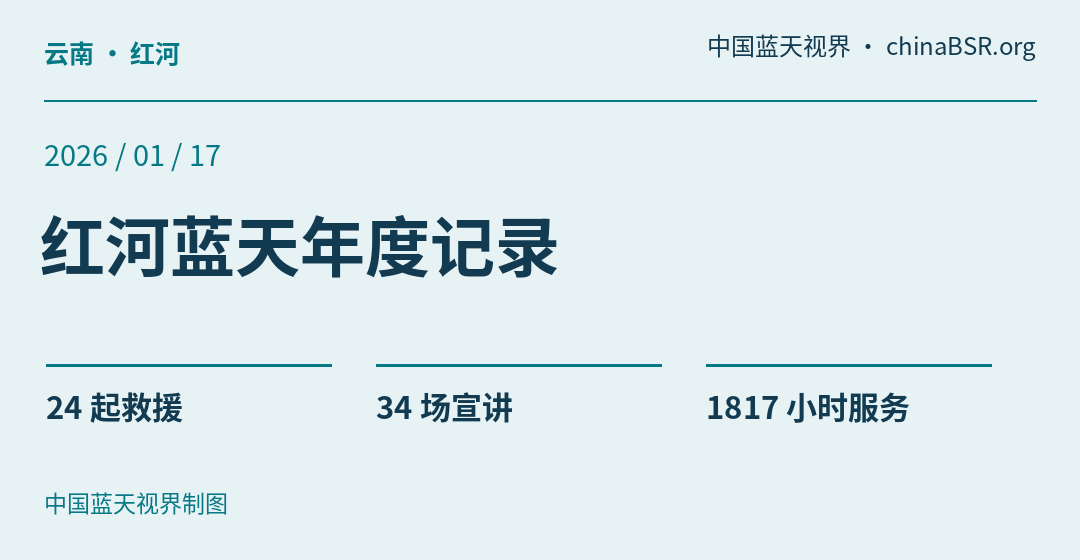
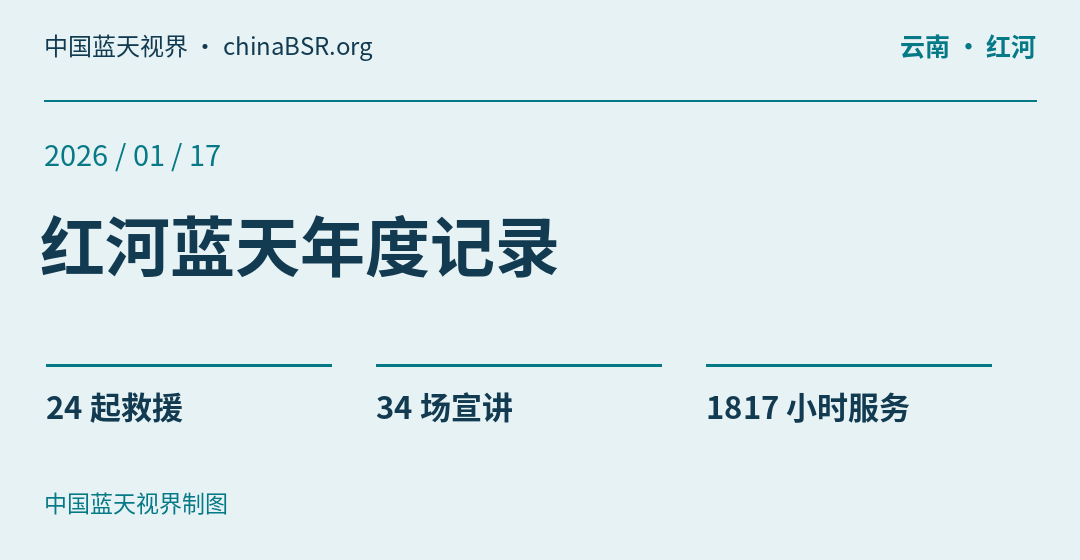
统一图片左上角标识并支持点击查看大图

Changed region(s): [[0.0306, 0.0607, 0.3361, 0.1214], [0.825, 0.0607, 0.9778, 0.1214], [0.6417, 0.0607, 0.7944, 0.1214]]

diff --git a/news/adiyaman-search-points/index.html b/news/adiyaman-search-points/index.html
@@ -1,5 +1,5 @@
 <!doctype html><html lang="zh-CN"><head><meta charset="utf-8"><meta name="viewport" content="width=device-width,initial-scale=1"><title>从马拉蒂亚转场阿德亚曼，五名队员徒步核实搜救点 · 中国蓝天视界</title><meta name="description" content="2023年2月，土耳其地震搜救进入第五天。当地时间10日晚，蓝天救援队第一梯队接到土耳其灾害与应急管理局调派，离开马拉蒂亚，向一百多公里外的阿德亚曼转移。"><link rel="canonical" href="https://chinabsr.org/news/adiyaman-search-points/"><link rel="icon" type="image/png" href="/assets/china-bsr-avatar.png"><link rel="apple-touch-icon" href="/assets/china-bsr-avatar.png"><meta property="og:title" content="从马拉蒂亚转场阿德亚曼，五名队员徒步核实搜救点"><meta property="og:description" content="2023年2月，土耳其地震搜救进入第五天。当地时间10日晚，蓝天救援队第一梯队接到土耳其灾害与应急管理局调派，离开马拉蒂亚，向一百多公里外的阿德亚曼转移。"><meta property="og:url" content="https://chinabsr.org/news/adiyaman-search-points/"><meta property="og:type" content="article"><link rel="stylesheet" href="/assets/site.css"><link rel="stylesheet" href="/assets/navigation.css"><script src="/assets/navigation.js" defer></script><script type="application/ld+json">{"@context": "https://schema.org", "@type": "NewsArticle", "headline": "从马拉蒂亚转场阿德亚曼，五名队员徒步核实搜救点", "description": "2023年2月，土耳其地震搜救进入第五天。当地时间10日晚，蓝天救援队第一梯队接到土耳其灾害与应急管理局调派，离开马拉蒂亚，向一百多公里外的阿德亚曼转移。", "datePublished": "2026-11-19", "mainEntityOfPage": "https://chinabsr.org/news/adiyaman-search-points/", "publisher": {"@type": "Organization", "name": "中国蓝天视界", "url": "https://chinabsr.org/"}, "citation": ["https://hi.people.com.cn/n2/2023/0211/c231207-40297825.html"], "image": "https://chinabsr.org/assets/adiyaman-news.webp"}</script><meta property="og:image" content="https://chinabsr.org/assets/adiyaman-news.webp"></head><body><header id="top"><div class="wrap"><a class="brand site-brand" href="/"><img src="/assets/china-bsr-avatar.png" width="50" height="50" alt=""><span class="brand-copy">中国蓝天视界<small>chinaBSR.org</small></span></a></div></header>
-<nav class="mainnav" aria-label="主导航"><div class="mainnav-in wrap"><a href="/">首页</a><a href="/news/" aria-current="page" class="on">蓝天资讯</a><a href="/about/">关于本站</a><button id="share" class="share-text" hidden>分享</button><span id="share-status" role="status" aria-live="polite"></span></div></nav><main class="wrap content"><article class="article"><nav aria-label="面包屑"><a href="/">首页</a> / <a href="/news/">蓝天资讯</a></nav><h1>从马拉蒂亚转场阿德亚曼，五名队员徒步核实搜救点</h1><p class="meta">新闻回顾 · 中国蓝天视界整理于 2026-11-19</p><p class="lead">2023年2月，土耳其地震搜救进入第五天。当地时间10日晚，蓝天救援队第一梯队接到土耳其灾害与应急管理局调派，离开马拉蒂亚，向一百多公里外的阿德亚曼转移。</p><figure><img src="/assets/adiyaman-news.webp" alt="阿德亚曼震区的中国蓝天和伊朗搜救人员"><figcaption>阿德亚曼震区的中国蓝天和伊朗搜救人员。摄影／<a href="https://commons.wikimedia.org/wiki/File:Chinese_Blue_Sky_and_Iranian_search_and_rescue_teams_are_in_Ad%C4%B1yaman,_which_was_affected_by_the_earthquakes.jpg">Hossein Velayati / Tasnim News Agency</a> · <a href="https://creativecommons.org/licenses/by/4.0/">CC BY 4.0</a>，本站添加右上角标识。</figcaption></figure><p>抵达新的责任区后，地图上的标记还要有人到现场核实。人民网海南频道记录了其中一组的行程：海南队员张纯彬、盛豪与另三名队员编在一起，五个人徒步先行，按图上标出的顺序，从东向西寻找坍塌点。</p><p>同在土耳其的海南队员分在不同梯队。第一梯队已经转场时，第二梯队还在赶往震区。把两路人的去向分开看，才能读懂当时接连发回的消息：有人刚动身，也有人已经在下一个责任区步行查点。</p><section class="sources"><h2>报道来源</h2><ul><li>人民网海南频道</li></ul></section><nav class="story-nav" aria-label="文章翻页"><a rel="prev" href="/news/chongqing-shigatse-quake/"><small>上一篇</small>定日地震后，重庆蓝天救援队带着通信设备赶赴日喀则</a></nav><section class="related"><h2>相关阅读</h2><ul><li><a href="/news/turkiye-earthquake-2023/">蓝天救援驰援土耳其地震：回看2023年2月8日的出发</a></li><li><a href="/news/verify-rescue-information/">如何辨别蓝天救援相关信息？从来源和照片查起</a></li><li><a href="/news/professional-training/">蓝天救援为什么重视专业训练？从联训看团队协作</a></li></ul></section><a href="/news/">查看全部蓝天资讯</a></article></main><footer><div class="wrap foot"><div><a class="brand" href="#top">中国蓝天视界 · chinaBSR.org</a>
+<nav class="mainnav" aria-label="主导航"><div class="mainnav-in wrap"><a href="/">首页</a><a href="/news/" aria-current="page" class="on">蓝天资讯</a><a href="/about/">关于本站</a><button id="share" class="share-text" hidden>分享</button><span id="share-status" role="status" aria-live="polite"></span></div></nav><main class="wrap content"><article class="article"><nav aria-label="面包屑"><a href="/">首页</a> / <a href="/news/">蓝天资讯</a></nav><h1>从马拉蒂亚转场阿德亚曼，五名队员徒步核实搜救点</h1><p class="meta">新闻回顾 · 中国蓝天视界整理于 2026-11-19</p><p class="lead">2023年2月，土耳其地震搜救进入第五天。当地时间10日晚，蓝天救援队第一梯队接到土耳其灾害与应急管理局调派，离开马拉蒂亚，向一百多公里外的阿德亚曼转移。</p><figure><img src="/assets/adiyaman-news.webp" alt="阿德亚曼震区的中国蓝天和伊朗搜救人员"><figcaption>阿德亚曼震区的中国蓝天和伊朗搜救人员。摄影／<a href="https://commons.wikimedia.org/wiki/File:Chinese_Blue_Sky_and_Iranian_search_and_rescue_teams_are_in_Ad%C4%B1yaman,_which_was_affected_by_the_earthquakes.jpg">Hossein Velayati / Tasnim News Agency</a> · <a href="https://creativecommons.org/licenses/by/4.0/">CC BY 4.0</a>，本站添加左上角标识。</figcaption></figure><p>抵达新的责任区后，地图上的标记还要有人到现场核实。人民网海南频道记录了其中一组的行程：海南队员张纯彬、盛豪与另三名队员编在一起，五个人徒步先行，按图上标出的顺序，从东向西寻找坍塌点。</p><p>同在土耳其的海南队员分在不同梯队。第一梯队已经转场时，第二梯队还在赶往震区。把两路人的去向分开看，才能读懂当时接连发回的消息：有人刚动身，也有人已经在下一个责任区步行查点。</p><section class="sources"><h2>报道来源</h2><ul><li>人民网海南频道</li></ul></section><nav class="story-nav" aria-label="文章翻页"><a rel="prev" href="/news/chongqing-shigatse-quake/"><small>上一篇</small>定日地震后，重庆蓝天救援队带着通信设备赶赴日喀则</a></nav><section class="related"><h2>相关阅读</h2><ul><li><a href="/news/turkiye-earthquake-2023/">蓝天救援驰援土耳其地震：回看2023年2月8日的出发</a></li><li><a href="/news/verify-rescue-information/">如何辨别蓝天救援相关信息？从来源和照片查起</a></li><li><a href="/news/professional-training/">蓝天救援为什么重视专业训练？从联训看团队协作</a></li></ul></section><a href="/news/">查看全部蓝天资讯</a></article></main><footer><div class="wrap foot"><div><a class="brand" href="#top">中国蓝天视界 · chinaBSR.org</a>
 <p>中国蓝天救援 · 独立公益科普信息平台</p></div>
 <nav aria-label="页脚导航"><a href="/youtube/" target="_blank" rel="noopener">YouTube 频道</a></nav></div>
 <div class="wrap footnote">本频道为非官方账号，仅用于公益介绍与信息分享。<br>© <span id="year">2026</span> China BSR</div></footer></body></html>

diff --git a/assets/site.css b/assets/site.css
@@ -1,1 +1,1 @@
-*{box-sizing:border-box}body{margin:0;color:#16354b;background:#f6f8f9;font:1rem/1.85 system-ui,"Microsoft YaHei",sans-serif}.wrap{width:min(90%,72rem);margin:auto}header{border-bottom:1px solid #ccd8df}header .wrap,.foot{display:flex;justify-content:space-between;gap:1.5rem;padding:1.2rem 0;align-items:center}.brand{font-size:1.25rem;font-weight:750;text-decoration:none}.brand span{color:#087ba7}nav{display:flex;gap:1.2rem}a{color:#075c91;text-underline-offset:.2em}a:focus-visible,button:focus-visible{outline:3px solid #d67b20;outline-offset:3px}.content{padding:2.5rem 0 4rem}h1{font-size:clamp(1.9rem,4vw,3rem);line-height:1.4}h2{font-size:1.4rem;line-height:1.5}.lead{font-size:1.1rem;color:#496373}.cards{display:grid;grid-template-columns:repeat(3,1fr);gap:1.5rem}.card{background:white;border:1px solid #dce5ea;border-radius:.6rem;overflow:hidden;text-decoration:none;color:inherit}.card img{width:100%;height:200px;object-fit:cover}.card div{padding:1.1rem}.card h2{font-size:1.15rem}.card p{color:#496373}.card span,.meta{color:#526979;font-size:.9rem}.article{max-width:48rem;margin:auto}.article p{line-height:2}.article figure{margin:2rem 0}.article img{width:100%;max-height:480px;object-fit:cover}.article figcaption{font-size:.85rem;color:#526979}.sources,.related{border-top:1px solid #ccd8df;margin-top:2rem;padding-top:1rem}.filters{display:flex;gap:.7rem;flex-wrap:nowrap;overflow-x:auto;max-width:100%;margin:1.5rem 0;padding-bottom:.35rem;-webkit-overflow-scrolling:touch}.filters button{flex:0 0 auto;white-space:nowrap}.filters button{font:inherit;border:1px solid #b5c8d3;padding:.4rem .9rem;border-radius:2rem;background:white;color:#16354b;cursor:pointer}.filters button[aria-pressed=true]{background:#16354b;color:white}footer{background:#102739;color:#cbdce6;padding:1rem 0 1.5rem}footer a{color:white}.foot nav{display:grid}.footnote{font-size:.9rem;border-top:1px solid #375367;padding-top:1rem}.home-news{padding:3rem 0}.card[hidden]{display:none}@media(max-width:800px){.cards{grid-template-columns:repeat(2,1fr)}}@media(max-width:550px){.cards{grid-template-columns:1fr}header .wrap,.foot{align-items:flex-start;flex-direction:column;gap:.6rem}nav{gap:1rem}.content{padding-top:1.5rem}}.latest-news{padding:0;list-style:none}.latest-news li{display:flex;gap:1em;align-items:baseline;padding:.6em 0;border-bottom:1px solid #dce5ea}.latest-news time,.news-list time{white-space:nowrap;color:#526979;font-size:.85rem}.news-list:has(.card:not([hidden])){margin-bottom:1.5rem}.photo-feature{display:grid;grid-template-columns:minmax(0,1fr) minmax(0,1fr);align-items:center;margin:1rem 0 1.5rem}.photo-feature img{display:block;height:auto}.photo-feature h2{font-size:clamp(1.15rem,2vw,1.65rem)}@media(max-width:600px){.photo-feature{grid-template-columns:1fr}}.story-nav{display:grid;grid-template-columns:repeat(2,minmax(0,1fr));margin:2rem 0;border-block:1px solid #ccd8df}.story-nav a{padding:.85rem 0;text-decoration:none}.story-nav a:hover,.story-nav a:focus-visible{text-decoration:underline}.story-nav small{display:block;color:#526979}.story-nav [rel=next]{grid-column:2}.news-list img{height:auto;aspect-ratio:1080/560;object-fit:contain;display:block}@media(max-width:600px){.story-nav{grid-template-columns:1fr;gap:0}.story-nav [rel=next]{grid-column:auto}}.archive-photo{position:relative;display:block}.archive-photo img{display:block}.archive-photo::after,.hero::after{content:"中国蓝天视界 · chinaBSR.org";position:absolute;top:.65rem;right:.75rem;z-index:1;color:white;background:rgba(9,29,45,.65);padding:.12rem .43rem;border-radius:.18rem;font:600 clamp(.68rem,1.1vw,.84rem)/1.5 system-ui,sans-serif;white-space:nowrap;pointer-events:none}
+*{box-sizing:border-box}body{margin:0;color:#16354b;background:#f6f8f9;font:1rem/1.85 system-ui,"Microsoft YaHei",sans-serif}.wrap{width:min(90%,72rem);margin:auto}header{border-bottom:1px solid #ccd8df}header .wrap,.foot{display:flex;justify-content:space-between;gap:1.5rem;padding:1.2rem 0;align-items:center}.brand{font-size:1.25rem;font-weight:750;text-decoration:none}.brand span{color:#087ba7}nav{display:flex;gap:1.2rem}a{color:#075c91;text-underline-offset:.2em}a:focus-visible,button:focus-visible{outline:3px solid #d67b20;outline-offset:3px}.content{padding:2.5rem 0 4rem}h1{font-size:clamp(1.9rem,4vw,3rem);line-height:1.4}h2{font-size:1.4rem;line-height:1.5}.lead{font-size:1.1rem;color:#496373}.cards{display:grid;grid-template-columns:repeat(3,1fr);gap:1.5rem}.card{background:white;border:1px solid #dce5ea;border-radius:.6rem;overflow:hidden;text-decoration:none;color:inherit}.card img{width:100%;height:200px;object-fit:cover}.card div{padding:1.1rem}.card h2{font-size:1.15rem}.card p{color:#496373}.card span,.meta{color:#526979;font-size:.9rem}.article{max-width:48rem;margin:auto}.article p{line-height:2}.article figure{margin:2rem 0}.article img{width:100%;max-height:480px;object-fit:cover}.article figcaption{font-size:.85rem;color:#526979}.sources,.related{border-top:1px solid #ccd8df;margin-top:2rem;padding-top:1rem}.filters{display:flex;gap:.7rem;flex-wrap:nowrap;overflow-x:auto;max-width:100%;margin:1.5rem 0;padding-bottom:.35rem;-webkit-overflow-scrolling:touch}.filters button{flex:0 0 auto;white-space:nowrap}.filters button{font:inherit;border:1px solid #b5c8d3;padding:.4rem .9rem;border-radius:2rem;background:white;color:#16354b;cursor:pointer}.filters button[aria-pressed=true]{background:#16354b;color:white}footer{background:#102739;color:#cbdce6;padding:1rem 0 1.5rem}footer a{color:white}.foot nav{display:grid}.footnote{font-size:.9rem;border-top:1px solid #375367;padding-top:1rem}.home-news{padding:3rem 0}.card[hidden]{display:none}@media(max-width:800px){.cards{grid-template-columns:repeat(2,1fr)}}@media(max-width:550px){.cards{grid-template-columns:1fr}header .wrap,.foot{align-items:flex-start;flex-direction:column;gap:.6rem}nav{gap:1rem}.content{padding-top:1.5rem}}.latest-news{padding:0;list-style:none}.latest-news li{display:flex;gap:1em;align-items:baseline;padding:.6em 0;border-bottom:1px solid #dce5ea}.latest-news time,.news-list time{white-space:nowrap;color:#526979;font-size:.85rem}.news-list:has(.card:not([hidden])){margin-bottom:1.5rem}.photo-feature{display:grid;grid-template-columns:minmax(0,1fr) minmax(0,1fr);align-items:center;margin:1rem 0 1.5rem}.photo-feature img{display:block;height:auto}.photo-feature h2{font-size:clamp(1.15rem,2vw,1.65rem)}@media(max-width:600px){.photo-feature{grid-template-columns:1fr}}.story-nav{display:grid;grid-template-columns:repeat(2,minmax(0,1fr));margin:2rem 0;border-block:1px solid #ccd8df}.story-nav a{padding:.85rem 0;text-decoration:none}.story-nav a:hover,.story-nav a:focus-visible{text-decoration:underline}.story-nav small{display:block;color:#526979}.story-nav [rel=next]{grid-column:2}.news-list img{height:auto;aspect-ratio:1080/560;object-fit:contain;display:block}@media(max-width:600px){.story-nav{grid-template-columns:1fr;gap:0}.story-nav [rel=next]{grid-column:auto}}.archive-photo{position:relative;display:block}.archive-photo img{display:block}.archive-photo::after,.hero::after{content:"中国蓝天视界 · chinaBSR.org";position:absolute;top:.65rem;left:.75rem;z-index:1;color:white;background:rgba(9,29,45,.65);padding:.12rem .43rem;border-radius:.18rem;font:600 clamp(.68rem,1.1vw,.84rem)/1.5 system-ui,sans-serif;white-space:nowrap;pointer-events:none}

diff --git a/assets/navigation.js b/assets/navigation.js
@@ -38,3 +38,66 @@ topButton.addEventListener('click', () => {
   const reduceMotion = window.matchMedia('(prefers-reduced-motion: reduce)').matches;
   window.scrollTo({top:0, behavior:reduceMotion ? 'instant' : 'smooth'});
 });
+
+function enablePhotoViewer() {
+  if (typeof HTMLDialogElement === 'undefined') return;
+  const dialog = document.createElement('dialog');
+  dialog.className = 'photo-viewer';
+  dialog.setAttribute('aria-label', '查看大图');
+  dialog.innerHTML = '<button type="button" class="viewer-close">关闭</button><figure><picture><img alt=""></picture><figcaption></figcaption></figure>';
+  document.body.append(dialog);
+  const close = dialog.querySelector('button');
+  const fullImage = dialog.querySelector('img');
+  const caption = dialog.querySelector('figcaption');
+  close.addEventListener('click', () => dialog.close());
+  dialog.addEventListener('click', event => {
+    if (event.target === dialog) dialog.close();
+  });
+
+  function openImage(image, credit) {
+    fullImage.src = image.currentSrc || image.src;
+    fullImage.alt = image.alt;
+    fullImage.parentElement.classList.toggle('archive-photo', Boolean(image.closest('.archive-photo, .slides')));
+    caption.textContent = credit || image.alt;
+    dialog.showModal();
+    close.focus();
+  }
+
+  function addTrigger(image) {
+    const media = image.closest('picture') || image;
+    const trigger = document.createElement('button');
+    trigger.type = 'button';
+    trigger.className = 'view-image';
+    trigger.setAttribute('aria-label', '查看大图：' + image.alt);
+    trigger.setAttribute('aria-haspopup', 'dialog');
+    media.replaceWith(trigger);
+    trigger.append(media);
+    trigger.addEventListener('click', () => openImage(image, image.closest('figure')?.querySelector('figcaption')?.textContent));
+  }
+
+  for (const link of document.querySelectorAll('a.card')) {
+    const image = link.querySelector('img');
+    if (!image) continue;
+    const card = document.createElement('article');
+    card.className = link.className;
+    const media = image.closest('picture') || image;
+    link.replaceWith(card);
+    card.append(media, link);
+    link.className = 'card-story';
+    addTrigger(image);
+  }
+  document.querySelectorAll('.article figure img').forEach(addTrigger);
+  const controls = document.querySelector('.hero .nav');
+  if (controls) {
+    const trigger = document.createElement('button');
+    trigger.type = 'button';
+    trigger.textContent = '查看大图';
+    trigger.setAttribute('aria-haspopup', 'dialog');
+    controls.append(trigger);
+    trigger.addEventListener('click', () => {
+      const active = document.querySelector('.slides img.active');
+      if (active) openImage(active, active.dataset.caption);
+    });
+  }
+}
+enablePhotoViewer();

diff --git a/assets/navigation.css b/assets/navigation.css
@@ -22,3 +22,19 @@ header .site-brand small{display:block;color:#075c91;font-size:14px;font-weight:
 .hero h1{font-size:clamp(2.35rem,6vw,5.7rem);letter-spacing:0}
 .hero h1 span{font-size:.52em;letter-spacing:0}
 @media(max-width:550px){header .site-brand .brand-copy{font-size:21px}header .site-brand img{width:46px;height:46px}}
+
+.card-story {display:block;color:inherit;text-decoration:none}
+.card-story:hover h2,.card-story:focus-visible h2 {text-decoration:underline}
+button.view-image {display:block;width:100%;margin:0;padding:0;border:0;border-radius:0;background:transparent;cursor:zoom-in}
+.view-image img {display:block}
+.photo-viewer {box-sizing:border-box;width:100vw;height:100dvh;max-width:none;max-height:none;margin:0;padding:4rem 1rem 1.5rem;border:0;background:#101a22;color:white}
+.photo-viewer::backdrop {background:#101a22}
+.photo-viewer[open] {display:grid;place-items:center}
+.photo-viewer figure {margin:0;text-align:center;max-width:100%}
+.photo-viewer picture {position:relative;display:inline-block;max-width:100%}
+.photo-viewer img {display:block;width:auto;height:auto;max-width:100%;max-height:calc(100dvh - 11rem);object-fit:contain;margin:auto}
+.photo-viewer figcaption {max-width:64rem;margin:.7rem auto 0;font-size:.9rem}
+.photo-viewer .viewer-close {position:absolute;top:1rem;right:1rem;color:white;background:#253844;border:1px solid #91a5b2;border-radius:2rem;padding:.5rem 1rem;cursor:pointer}
+body:has(.photo-viewer[open]) {overflow:hidden}
+.hero .nav {flex-wrap:wrap}
+.hero .copy {padding-top:max(3rem,5vw)}

diff --git a/build.py b/build.py
@@ -24,7 +24,7 @@ css='''*{box-sizing:border-box}body{margin:0;color:#16354b;background:#f6f8f9;fo
 css += '.latest-news{padding:0;list-style:none}.latest-news li{display:flex;gap:1em;align-items:baseline;padding:.6em 0;border-bottom:1px solid #dce5ea}.latest-news time,.news-list time{white-space:nowrap;color:#526979;font-size:.85rem}.news-list:has(.card:not([hidden])){margin-bottom:1.5rem}'
 css += '.photo-feature{display:grid;grid-template-columns:minmax(0,1fr) minmax(0,1fr);align-items:center;margin:1rem 0 1.5rem}.photo-feature img{display:block;height:auto}.photo-feature h2{font-size:clamp(1.15rem,2vw,1.65rem)}@media(max-width:600px){.photo-feature{grid-template-columns:1fr}}'
 css += '.story-nav{display:grid;grid-template-columns:repeat(2,minmax(0,1fr));margin:2rem 0;border-block:1px solid #ccd8df}.story-nav a{padding:.85rem 0;text-decoration:none}.story-nav a:hover,.story-nav a:focus-visible{text-decoration:underline}.story-nav small{display:block;color:#526979}.story-nav [rel=next]{grid-column:2}.news-list img{height:auto;aspect-ratio:1080/560;object-fit:contain;display:block}@media(max-width:600px){.story-nav{grid-template-columns:1fr;gap:0}.story-nav [rel=next]{grid-column:auto}}'
-css += '.archive-photo{position:relative;display:block}.archive-photo img{display:block}.archive-photo::after,.hero::after{content:"中国蓝天视界 · chinaBSR.org";position:absolute;top:.65rem;right:.75rem;z-index:1;color:white;background:rgba(9,29,45,.65);padding:.12rem .43rem;border-radius:.18rem;font:600 clamp(.68rem,1.1vw,.84rem)/1.5 system-ui,sans-serif;white-space:nowrap;pointer-events:none}'
+css += '.archive-photo{position:relative;display:block}.archive-photo img{display:block}.archive-photo::after,.hero::after{content:"中国蓝天视界 · chinaBSR.org";position:absolute;top:.65rem;left:.75rem;z-index:1;color:white;background:rgba(9,29,45,.65);padding:.12rem .43rem;border-radius:.18rem;font:600 clamp(.68rem,1.1vw,.84rem)/1.5 system-ui,sans-serif;white-space:nowrap;pointer-events:none}'
 write('assets/site.css',css)
 news = sorted(json.loads((R/'content/news.json').read_text()), key=lambda a: a['when'], reverse=True)
 catalog = {a['slug']: a for a in articles + news}
@@ -98,7 +98,7 @@ for a in news:
  elif a.get('cover'):
   c = credits[a['original']]
   ld['image'] = 'https://chinabsr.org/'+a['cover']
-  body += f'<figure><img src="/{a["cover"]}" alt="阿德亚曼震区的中国蓝天和伊朗搜救人员"><figcaption>阿德亚曼震区的中国蓝天和伊朗搜救人员。摄影／<a href="{e(c["source"])}">{e(c["author"])}</a> · <a href="{c["license_url"]}">{c["license"]}</a>，本站添加右上角标识。</figcaption></figure>'
+  body += f'<figure><img src="/{a["cover"]}" alt="阿德亚曼震区的中国蓝天和伊朗搜救人员"><figcaption>阿德亚曼震区的中国蓝天和伊朗搜救人员。摄影／<a href="{e(c["source"])}">{e(c["author"])}</a> · <a href="{c["license_url"]}">{c["license"]}</a>，本站添加左上角标识。</figcaption></figure>'
  body += ''.join(f'<p>{paragraph(a,p)}</p>' for p in a['paragraphs'])
  body += '<section class="sources"><h2>报道来源</h2><ul>'+''.join(f'<li>{e(t)}</li>' for t,_ in a['sources'])+'</ul></section>'+article_footer(a, news)
  result = page(a['title'],a['description'],path,body,ld)
